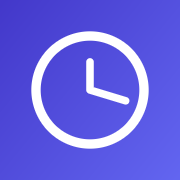
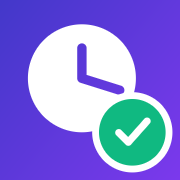
L'app si chiama "Al Día", icona nuova e guida all'installazione
- nome nuovo ovunque: manifest, titolo, schermata di accesso
- icona ridisegnata: quadrante bianco con le lancette ritagliate e il bollino
  verde con la spunta, che è il senso del nome. Lo stesso segno compare nella
  schermata di accesso
- il messaggio per il lavoratore ora contiene la guida passo per passo per
  mettere l'app sul telefono, e il titolare sceglie Android o iPhone così ne
  arriva solo una

diff --git a/src/pages/admin/Lavoratore.tsx b/src/pages/admin/Lavoratore.tsx
@@ -303,6 +303,7 @@ function FormAccesso({ open, onClose, worker }: { open: boolean; onClose: () => 
   const [errore, setErrore] = useState('')
   const [attesa, setAttesa] = useState(false)
   const [esito, setEsito] = useState<'copiato' | 'errore' | null>(null)
+  const [sistema, setSistema] = useState<'android' | 'iphone'>('android')
 
   useEffect(() => {
     if (!open) return
@@ -315,17 +316,38 @@ function FormAccesso({ open, onClose, worker }: { open: boolean; onClose: () => 
   const usuario = worker.access_login ?? utente
   const clave = worker.access_password ?? password
   const enlace = `${window.location.origin}${import.meta.env.BASE_URL}`
+
+  // Le istruzioni cambiano parecchio fra i due telefoni: si manda solo quella giusta,
+  // scritta passo per passo perché la possa seguire chiunque.
+  const PASSI = {
+    android:
+      `- Pulsa el enlace de aquí arriba: se abre Chrome.\n` +
+      `- Arriba a la derecha hay tres puntitos (⋮). Púlsalos.\n` +
+      `- Baja y elige "Instalar aplicación" (o "Añadir a pantalla de inicio").\n` +
+      `- Pulsa "Instalar".\n` +
+      `- Ya está. Te queda el icono en el móvil, igual que WhatsApp.`,
+    iphone:
+      `- Pulsa el enlace de aquí arriba. IMPORTANTE: se tiene que abrir con Safari.\n` +
+      `- Abajo del todo hay un cuadradito con una flecha hacia arriba (↑). Púlsalo.\n` +
+      `- Baja por la lista y elige "Añadir a pantalla de inicio".\n` +
+      `- Pulsa "Añadir", arriba a la derecha.\n` +
+      `- Ya está. Te queda el icono en el móvil, igual que WhatsApp.`,
+  }
+
   const messaggio =
     `¡Hola ${worker.name.split(' ')[0]}! ¿Qué tal?\n\n` +
-    `He preparado esta aplicación para llevar el control de las horas y de los pagos, ` +
-    `así los dos sabemos siempre cómo vamos.\n\n` +
-    `Ábrela aquí:\n${enlace}\n\n` +
-    `Entra con estos datos:\n` +
+    `He preparado una aplicación para llevar el control de las horas y de los pagos, ` +
+    `así los dos sabemos siempre cómo vamos. Se llama "Al Día".\n\n` +
+    `*1) Abre este enlace*\n${enlace}\n\n` +
+    `*2) Ponla en el móvil* (es un minuto)\n${PASSI[sistema]}\n\n` +
+    `*3) Entra con estos datos*\n` +
     `Usuario: ${(vista === 'ver' ? usuario : utente).split('@')[0]}\n` +
     `Contraseña: ${vista === 'ver' ? clave : password}\n\n` +
-    `Cada tarde, al terminar la jornada, entra y apunta las horas que has hecho. ` +
-    `Solo se puede el mismo día: al día siguiente ya no se puede.\n\n` +
-    `Ahí ves siempre los días que has trabajado, lo que llevas ganado y lo que te he pagado.`
+    `*4) Cada tarde, al terminar de trabajar*\n` +
+    `Abre la app y apunta las horas que has hecho. Solo se puede el mismo día: ` +
+    `al día siguiente ya no se puede.\n\n` +
+    `Ahí ves siempre los días que has trabajado, lo que llevas ganado y lo que te he pagado. ` +
+    `Cualquier duda me dices.`
 
   async function copia() {
     const ok = await copiaTesto(messaggio)
@@ -384,6 +406,18 @@ function FormAccesso({ open, onClose, worker }: { open: boolean; onClose: () => 
               <span className="select-all font-mono text-[15px] font-bold">{clave}</span>
             </div>
           </Card>
+
+          <Field label="¿Qué móvil tiene?" hint="Le mando solo los pasos de su teléfono, para que no se líe.">
+            <div className="grid grid-cols-2 gap-2">
+              {([['android', 'Android'], ['iphone', 'iPhone']] as const).map(([k, t]) => (
+                <button key={k} onClick={() => setSistema(k)}
+                  className={cx('rounded-2xl py-3 text-[15px] font-semibold transition active:scale-95',
+                    sistema === k ? 'bg-brand-600 text-white' : 'bg-white text-ink-700 ring-1 ring-ink-200')}>
+                  {t}
+                </button>
+              ))}
+            </div>
+          </Field>
 
           <Button size="lg" full onClick={() => apriWhatsApp(messaggio)}>
             <IconShare className="h-5 w-5" /> Enviar por WhatsApp

diff --git a/src/pages/Login.tsx b/src/pages/Login.tsx
@@ -1,6 +1,6 @@
 import { useState } from 'react'
 import { Button, Errore, Field, Sheet, inputCls, Spinner } from '../components/ui'
-import { IconClock, IconInfo } from '../components/icons'
+import { IconCheck, IconClock, IconInfo } from '../components/icons'
 import { db, isDemo } from '../lib/db'
 import { useApp } from '../context/AppContext'
 
@@ -44,10 +44,18 @@ export default function Login() {
       <div className="mx-auto flex min-h-screen max-w-[480px] flex-col px-5 safe-top safe-bottom">
 
         <header className="flex flex-col items-center pt-16 pb-8 text-center text-white">
-          <div className="mb-4 rounded-[22px] bg-white/15 p-4 ring-1 ring-white/25 backdrop-blur">
-            <IconClock className="h-9 w-9" />
+          <div className="relative mb-4">
+            <div className="rounded-[22px] bg-white/15 p-4 ring-1 ring-white/25 backdrop-blur">
+              <IconClock className="h-9 w-9" />
+            </div>
+            {/* stessa spunta verde dell'icona dell'app */}
+            <div className="absolute -bottom-1.5 -right-1.5 rounded-full bg-brand-600 p-[3px]">
+              <div className="rounded-full bg-emerald-500 p-1.5 text-white">
+                <IconCheck className="h-3.5 w-3.5" />
+              </div>
+            </div>
           </div>
-          <h1 className="text-[30px] font-extrabold tracking-tight">Horas y Pagos</h1>
+          <h1 className="text-[34px] font-extrabold tracking-tight">Al Día</h1>
           <p className="mt-1.5 text-[15px] text-white/80">Las horas trabajadas y lo que te toca cobrar, siempre claro.</p>
         </header>
 

diff --git a/index.html b/index.html
@@ -7,10 +7,10 @@
     <meta name="apple-mobile-web-app-capable" content="yes" />
     <meta name="mobile-web-app-capable" content="yes" />
     <meta name="apple-mobile-web-app-status-bar-style" content="default" />
-    <meta name="apple-mobile-web-app-title" content="Horas y Pagos" />
+    <meta name="apple-mobile-web-app-title" content="Al Día" />
     <link rel="apple-touch-icon" href="/apple-touch-icon.png" />
     <link rel="icon" type="image/png" href="/icon-192.png" />
-    <title>Horas y Pagos</title>
+    <title>Al Día</title>
   </head>
   <body>
     <div id="root"></div>

diff --git a/vite.config.ts b/vite.config.ts
@@ -15,9 +15,9 @@ export default defineConfig({
       registerType: 'autoUpdate',
       includeAssets: ['icon-192.png', 'icon-512.png', 'apple-touch-icon.png'],
       manifest: {
-        name: 'Horas y Pagos',
-        short_name: 'Horas y Pagos',
-        description: 'Registro de horas trabajadas y pagos',
+        name: 'Al Día',
+        short_name: 'Al Día',
+        description: 'Tus horas y lo que te toca cobrar, siempre al día',
         theme_color: '#0f172a',
         background_color: '#0f172a',
         display: 'standalone',

diff --git a/scripts/genera-icone.py b/scripts/genera-icone.py
@@ -1,48 +1,74 @@
-"""Genera le icone PNG della PWA senza dipendenze esterne."""
+"""
+Genera le icone PNG di "Al Día" senza dipendenze esterne.
+
+Il segno: un orologio bianco pieno con le lancette ritagliate, e in basso a
+destra un bollino verde con la spunta — "la giornata è registrata, siamo in pari".
+Tutto disegnato con distanze matematiche, così i bordi restano morbidi.
+"""
 import math, struct, zlib, pathlib
 
 OUT = pathlib.Path(__file__).resolve().parent.parent / 'public'
 OUT.mkdir(exist_ok=True)
 
-def lerp(a, b, t): return a + (b - a) * t
-def smooth(d):                      # copertura antialiasing da distanza con segno
+INDACO  = (67, 56, 202)     # #4338ca
+VIOLA   = (124, 58, 237)    # #7c3aed
+VERDE   = (16, 185, 129)    # #10b981
+BIANCO  = (255, 255, 255)
+
+def mix(a, b, t):
+    t = max(0.0, min(1.0, t))
+    return tuple(int(a[i] + (b[i] - a[i]) * t) for i in range(3))
+
+def copertura(d):
+    """Da distanza con segno a quantità di colore: bordi sfumati su un pixel."""
     return max(0.0, min(1.0, 0.5 - d))
 
-def dist_seg(px, py, ax, ay, bx, by):
+def dist_segmento(px, py, ax, ay, bx, by):
     vx, vy, wx, wy = bx - ax, by - ay, px - ax, py - ay
     L = vx * vx + vy * vy
     t = 0.0 if L == 0 else max(0.0, min(1.0, (wx * vx + wy * vy) / L))
     return math.hypot(px - (ax + t * vx), py - (ay + t * vy))
 
-def icona(size: int) -> bytes:
-    s = size
-    cx = cy = s / 2
-    R      = s * 0.30       # raggio del quadrante
-    anello = s * 0.052      # spessore
-    lanc   = s * 0.042      # spessore lancette
-
-    # gradiente diagonale indaco
-    c1 = (67, 56, 202)      # #4338ca
-    c2 = (99, 102, 241)     # #6366f1
+def icona(s: int) -> bytes:
+    # tutto in frazioni del lato, così l'icona è identica a ogni misura
+    cx, cy   = 0.455 * s, 0.435 * s      # centro del quadrante
+    r_disco  = 0.300 * s
+    sp_lanc  = 0.052 * s                 # spessore lancette
+    bx, by   = 0.735 * s, 0.735 * s      # centro del bollino
+    r_boll   = 0.185 * s
+    r_anello = r_boll + 0.038 * s        # alone bianco che stacca il bollino
+    sp_spunt = 0.040 * s
 
     righe = []
     for y in range(s):
         riga = bytearray()
         for x in range(s):
             px, py = x + 0.5, y + 0.5
-            t = (px / s * 0.55 + py / s * 0.45)
-            r = int(lerp(c1[0], c2[0], t))
-            g = int(lerp(c1[1], c2[1], t))
-            b = int(lerp(c1[2], c2[2], t))
 
-            d_anello = abs(math.hypot(px - cx, py - cy) - R) - anello / 2
-            d_ora    = dist_seg(px, py, cx, cy, cx, cy - R * 0.52) - lanc / 2
-            d_min    = dist_seg(px, py, cx, cy, cx + R * 0.66, cy + R * 0.20) - lanc / 2
-            a = max(smooth(d_anello), smooth(d_ora), smooth(d_min))
+            # sfondo: sfumatura in diagonale
+            col = mix(INDACO, VIOLA, px / s * 0.55 + py / s * 0.45)
 
-            if a > 0:
-                r = int(lerp(r, 255, a)); g = int(lerp(g, 255, a)); b = int(lerp(b, 255, a))
-            riga += bytes((r, g, b, 255))
+            # quadrante bianco pieno, con le lancette ritagliate
+            a_disco = copertura(math.hypot(px - cx, py - cy) - r_disco)
+            if a_disco > 0:
+                d_ora = dist_segmento(px, py, cx, cy, cx, cy - r_disco * 0.56) - sp_lanc / 2
+                d_min = dist_segmento(px, py, cx, cy, cx + r_disco * 0.70, cy + r_disco * 0.22) - sp_lanc / 2
+                a_lanc = max(copertura(d_ora), copertura(d_min))
+                col = mix(col, BIANCO, a_disco * (1 - a_lanc))
+
+            # bollino verde con la spunta
+            a_anello = copertura(math.hypot(px - bx, py - by) - r_anello)
+            if a_anello > 0:
+                col = mix(col, BIANCO, a_anello)
+                a_boll = copertura(math.hypot(px - bx, py - by) - r_boll)
+                if a_boll > 0:
+                    col = mix(col, VERDE, a_boll)
+                    d1 = dist_segmento(px, py, bx - 0.075 * s, by + 0.002 * s, bx - 0.022 * s, by + 0.055 * s)
+                    d2 = dist_segmento(px, py, bx - 0.022 * s, by + 0.055 * s, bx + 0.082 * s, by - 0.062 * s)
+                    a_spunta = copertura(min(d1, d2) - sp_spunt / 2)
+                    col = mix(col, BIANCO, a_boll * a_spunta)
+
+            riga += bytes((col[0], col[1], col[2], 255))
         righe.append(bytes(riga))
 
     raw = b''.join(b'\x00' + r for r in righe)

diff --git a/README.md b/README.md
@@ -1,4 +1,4 @@
-# Horas y Pagos
+# Al Día
 
 > **L'app è interamente in spagnolo.** Questo file di istruzioni resta in italiano,
 > è la tua guida di riferimento.
@@ -110,6 +110,10 @@ totale, e lui lo vede subito nella sua area.
 - **Avvisi.** Quando arrivano ore nuove trovi il riquadro giallo "nuove registrazioni"
   nella schermata dei lavoratori, e la lista si aggiorna da sola mentre l'app è aperta.
   Le notifiche a telefono spento non ci sono: servirebbe un server dedicato.
+- **La guida per installarla è dentro il messaggio.** Quando invii le credenziali,
+  scegli prima se il lavoratore ha **Android** o **iPhone**: il messaggio conterrà
+  solo i passi del suo telefono, scritti uno per uno.
+
 - **Le credenziali dei lavoratori le rivedi quando vuoi.** Nella scheda del
   lavoratore, l'icona a forma di chiave mostra nome utente e password, con il
   tasto per rimandargliele su WhatsApp. Sono conservate in chiaro **apposta**,
